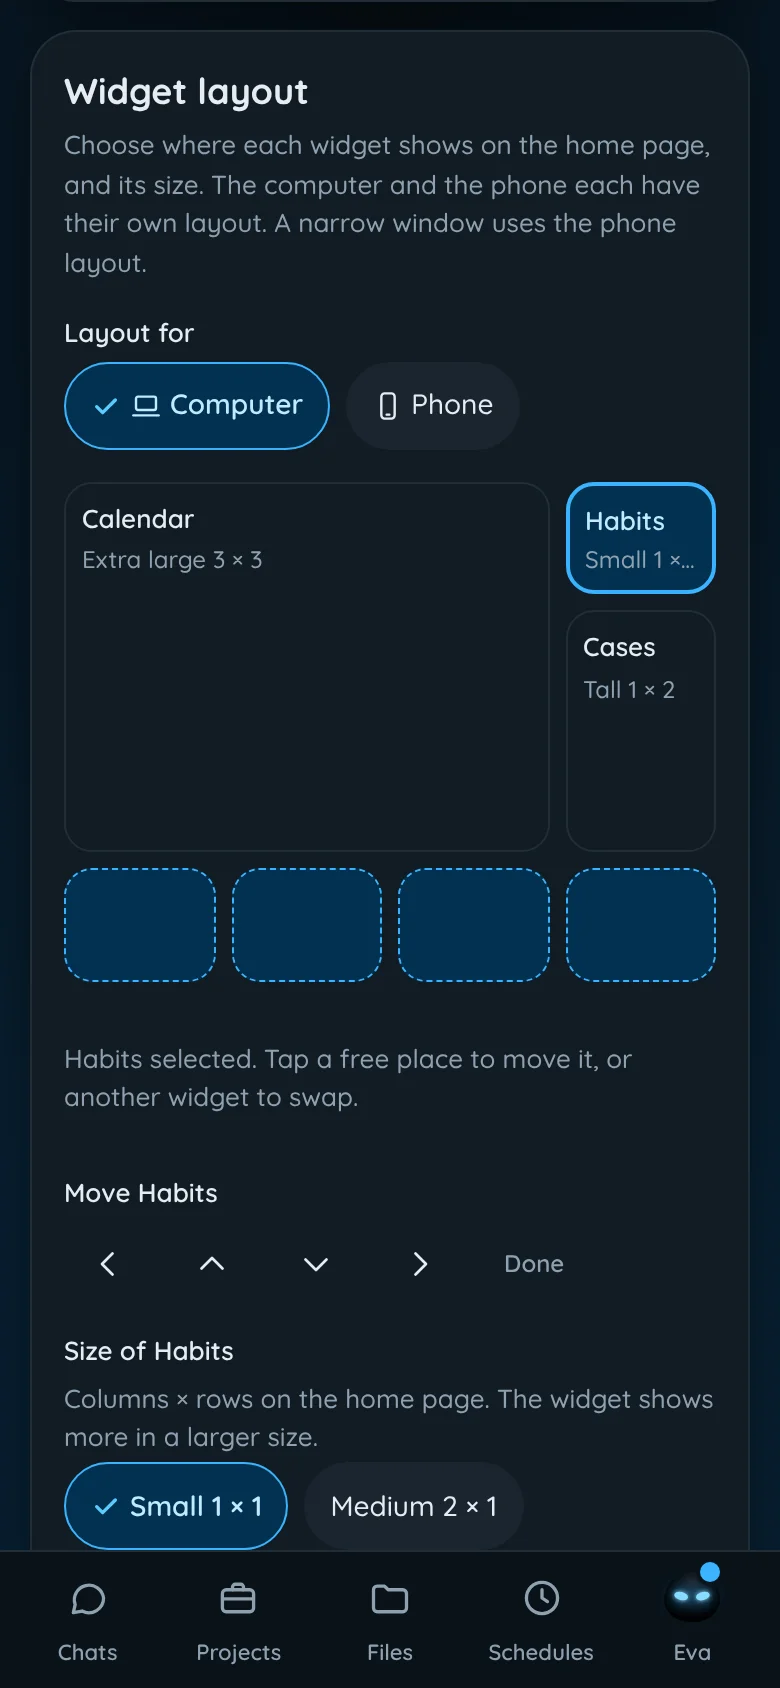
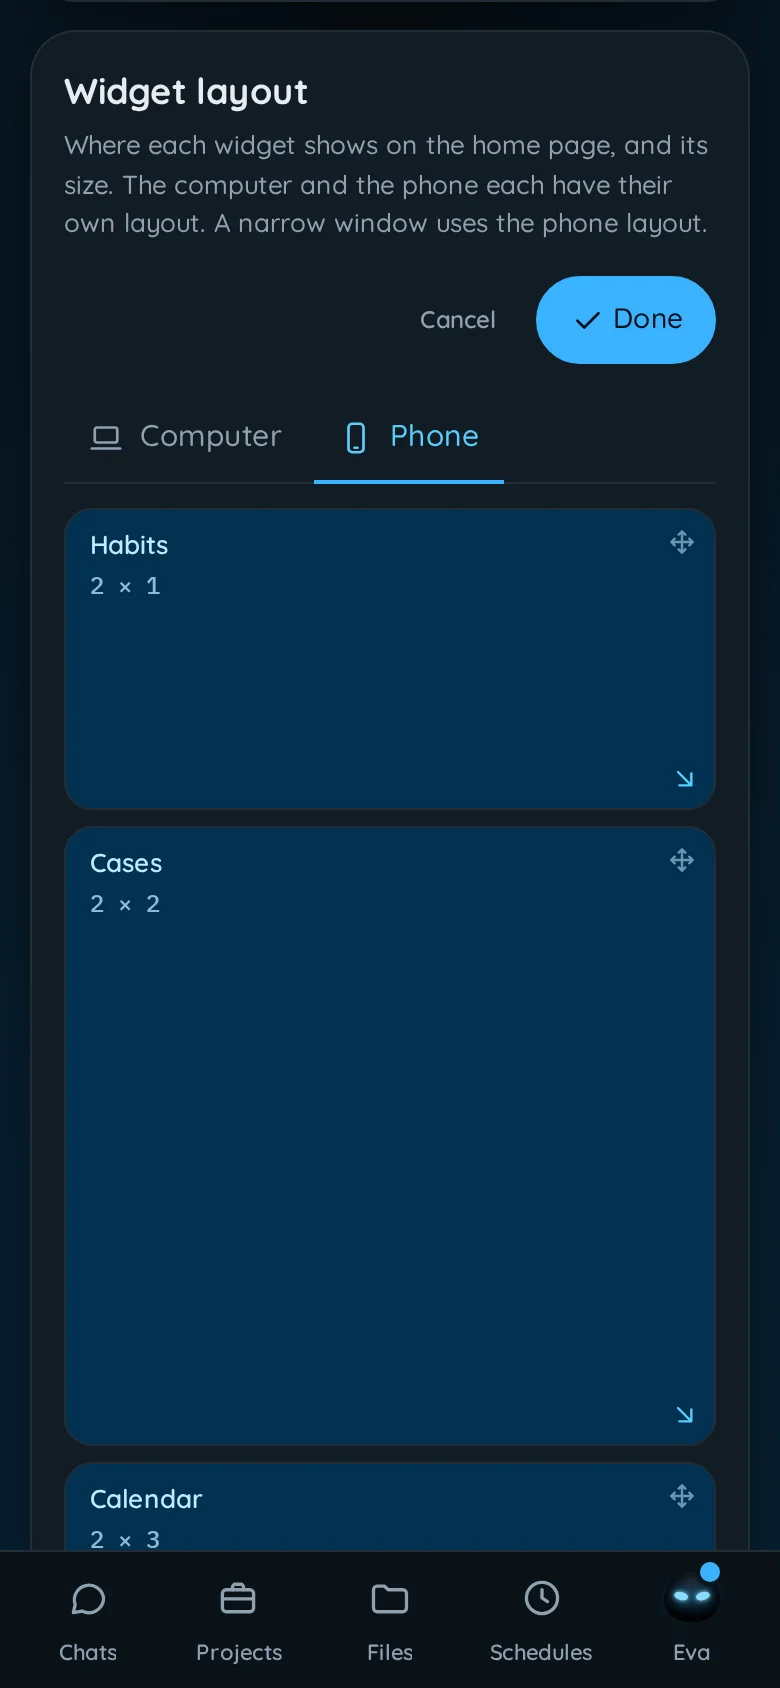
docs: describe the drag editor of the widget layout, and capture it
docs/widgets.md says how a free shape maps to a size name of the
contract, and that a layout saved with a size still reads. The guide
describes the tabs, the edit mode, the drag, the handle and the keys.
The EVE design guide gets the new look and new captures of the edit
mode.

Refs #995

Claude-Session: https://claude.ai/code/session_011YsmygfcE8m7chS1nDMyiz

diff --git a/docs/widgets.md b/docs/widgets.md
@@ -170,7 +170,9 @@ An `eva-cases` input gives the widget the person's open cases. Eva reads them fr
 
 ## Sizes
 
-A widget has five sizes for a fixed grid, and a full-screen view, `full`. The manifest's `size` is the default size of its card in the grid. The person can give the card another of the five sizes, apart on a computer and on a phone, so a widget must work at each size. `tall` and `xlarge` come with contract 2.
+A widget has five sizes for a grid, and a full-screen view, `full`. The manifest's `size` is the default size of its card in the grid. The person can give the card any shape of whole columns and rows, apart on a computer and on a phone. Eva gives the widget the nearest of the five sizes, so a widget must work at each size. `tall` and `xlarge` come with contract 2.
+
+The default shape of each size:
 
 | Size     | On a computer (4 columns) | On a phone (2 columns)                                 |
 | -------- | ------------------------- | ------------------------------------------------------ |
@@ -180,14 +182,28 @@ A widget has five sizes for a fixed grid, and a full-screen view, `full`. The ma
 | `tall`   | 1 column, 2 rows          | The full width, 2 rows                                 |
 | `xlarge` | 3 columns, 3 rows         | The full width, 3 rows                                 |
 
+The size of any other shape (`sizeOfShape` in `src/core/widgets/widget-layout.ts`):
+
+| Shape                                | Size     | Examples                   |
+| ------------------------------------ | -------- | -------------------------- |
+| 1 column, 1 row                      | `small`  | 1 × 1                      |
+| 1 column, 2 rows or more             | `tall`   | 1 × 2, 1 × 4               |
+| 2 columns, 1 row                     | `medium` | 2 × 1                      |
+| 3 columns or more, 1 row             | `large`  | 3 × 1, 4 × 1               |
+| 2 columns or more and 2 rows or more | `large`  | 2 × 2                      |
+| The same, with 6 cells or more       | `xlarge` | 3 × 2, 2 × 3, 3 × 3, 4 × 4 |
+
+A card at the default shape of its own size keeps that size. So a `tall` card at 2 × 2 on a phone stays `tall`, and a card with no saved shape gets the size of its manifest.
+
 The grid is the day panel of Eva's home page:
 
 - The person places each card in **Settings > Personalize > Widget layout**, with a preview of the grid. The computer and the phone each have their own layout. A place can stay empty.
-- Each entry of `.eva/widgets.json` can keep its place and size in an optional `layout` key: `{ "computer": { "column": 1, "row": 1, "size": "xlarge" }, "phone": { "column": 1, "row": 4 } }`. `column` and `row` start at 1. Eva ignores a bad value.
-- A card with no saved place fills the first hole where it fits, in the order of the list, after the saved cards. So no order makes cards overlap. A phone with no saved place follows the order of the computer layout.
+- Each entry of `.eva/widgets.json` can keep its place and shape in an optional `layout` key: `{ "computer": { "column": 1, "row": 1, "columns": 3, "rows": 2 }, "phone": { "column": 1, "row": 4, "columns": 2, "rows": 3 } }`. `column` and `row` start at 1. A card has 4 columns and 8 rows at most. Eva ignores a bad value.
+- An older Eva saved a size name instead of a shape, such as `{ "column": 1, "row": 1, "size": "xlarge" }`. Eva still reads it: the card gets the default shape and the name of that size. A new save writes `columns` and `rows`.
+- A card with no saved place fills the first hole where it fits, in the order of the list, after the saved cards. So no order makes cards overlap. A phone with no saved place follows the order of the computer layout. It takes the size of the computer shape, with the phone shape of that size.
 - `placeWidgets` in `src/core/widgets/widget-layout.ts` places the cards of the home grid and of the preview.
 - On a computer, at least three rows share the height above the message box. Each row is at least 140 px high. More cards add rows, and the page scrolls.
-- On a phone, each row is 168 px high, and the page scrolls. With no saved place, an `xlarge` card shows after the smaller cards, so a long calendar does not push them out of view. Two `small` cards share a row. A `small` card with no partner in its row takes the full width.
+- On a phone, each row is 168 px high, and the page scrolls. With no saved place, an `xlarge` card shows after the smaller cards, so a long calendar does not push them out of view. Two `small` cards share a row. A `small` card that Eva places alone in its row takes the full width. A card that the person placed keeps the shape that the person gave it.
 
 - The widget always fills the space that it gets, at every screen size. It has no empty border.
 - Keep the top right corner free of text and buttons: 56 px wide and 56 px high, at every size. Eva puts her full-screen button there, over the widget, and her close button in full screen.

diff --git a/docs/guide/reference.md b/docs/guide/reference.md
@@ -613,14 +613,17 @@ Each feature stays off until you set it up. `eva doctor` shows which tools are m
   - The list, the layout and the inputs live in `.eva/widgets.json` in the vault. The approvals and a read-only copy of each widget stay on this computer. So another computer shows the same widgets, each with **Approve to show this widget**, until you approve it there.
   - **Turn off** hides a widget and keeps its approval. **Remove** drops its approval and its copy. Your data in the vault stays.
   - **Widget layout**, below the list, chooses where each widget shows and its size. The tiles button next to the bell of the home page opens it too.
-    - Pick **Computer** or **Phone**. Each has its own layout. A window narrower than 761 px uses the phone layout. A phone with no layout of its own follows the computer's order, with no gaps.
-    - The preview shows the home page at a small scale, with one box for each widget that is on. Select a box, then tap a free place to move it there, or another box to swap the two. A mouse can drag a box, and a finger can drag the selected box. The arrows, or the arrow keys, move the selected box one place.
-    - Pick a size for the selected widget: Small, Medium, Large, Tall or Extra large. Each shows its columns and rows. A widget that waits for approval stays small.
+    - Pick the **Computer** or the **Phone** tab. Each has its own layout. A window narrower than 761 px uses the phone layout. A phone with no layout of its own follows the computer's order, with no gaps.
+    - The preview shows the home page at a small scale, with one box for each widget that is on. Each box shows the name of the widget and its size in columns × rows, such as 2 × 1.
+    - Press **Edit** to change the layout. The free cells show as dashed outlines, with one spare row at the bottom.
+    - Drag a box to move it. It snaps to the cells. A place that another box takes does nothing, but a box dropped exactly on a box of the same size swaps places with it.
+    - Drag the corner handle at the bottom right of a box to change its width and its height, in whole cells. The other boxes and the edge of the grid stop it. A widget that waits for approval stays 1 × 1 and has no handle.
+    - With the keyboard, press Tab to go to a box. The arrow keys move it one cell, past the boxes in the way. Shift and the arrow keys change its size by one cell. Press Escape during a drag to put the box back.
     - An empty place stays empty: the home page keeps the gap. A widget that you turn on later goes after the others.
-    - **Arrangements** place every widget with one tap, such as **Big widget left**. **Reset to default** gives back the order of the list, with no gaps.
-    - Nothing changes until you press **Save layout**. Eva then writes the layout into the vault once. When you leave with changes that are not saved, Eva asks first.
-    - With no saved layout, each widget fills the first place where it fits, in the order of the list. On a phone, an Extra large widget then shows after the smaller ones.
-    - On a phone, a Small widget alone in its row always takes the whole row.
+    - **Reset to default** gives back the order of the list, with no gaps, and the size of each widget.
+    - Press **Done** to keep the changes of both tabs. Eva then writes the layout into the vault once. **Cancel** drops them. When you leave with changes that are not saved, Eva asks first.
+    - Eva tells each widget the nearest of its five sizes for the shape that you give it. [docs/widgets.md](../widgets.md#sizes) lists them.
+    - With no saved layout, each widget fills the first place where it fits, in the order of the list. On a phone, an Extra large widget then shows after the smaller ones, and a Small widget alone in its row takes the whole row. A widget that you placed keeps the shape that you gave it.
   - Each folder where a widget keeps data gets a `DATA_FORMAT.md`. Eva writes the whole file: it lists the files, the fields and the widget of each field. Do not edit it. Write your notes in the `AGENTS.md` or the `README.md` of the folder.
   - **Turn on** also shows the line that the widget adds to Eva's prompt. Each new chat with Eva gets it with your real folder. A project chat does not. So when you say "today I trained", Eva saves it where the training widget reads it.
   - Two widgets can share a folder. When one names a field with another type than the other, Eva warns you. Then turn the second widget on with read access only, or pick another folder.

diff --git a/docs/design/eve/README.md b/docs/design/eve/README.md
@@ -385,11 +385,12 @@ Cases, a case page, People, Inventory, Pets and Periods, on a computer and on a 
 
 ![Computer](screenshots/widget-layout-computer-light.webp) ![Phone](screenshots/widget-layout-phone-light.webp)
 
-- Settings > Personalize > Widget layout places the widgets of the home page. Chips pick the computer or the phone layout.
-- The preview is the home grid at a small scale: four columns on a computer, two on a phone. Each widget that is on has a box with its name and size. `placeWidgets` places the preview and the home grid, so the two never differ.
-- A tap selects a box: it takes the soft accent fill and a 2 px accent border. Each free place where it fits shows a dashed accent cell. A tap on a cell moves the box. A tap on another box swaps the two. A drag shows a dashed outline where the box would land.
-- Below the preview, the arrows move the selected box, and chips pick its size. Each target is 44 px at least on a phone.
-- Arrangement chips place every widget with one tap. Save layout is the main button. Nothing changes on the home page before it.
+- Settings > Personalize > Widget layout places the widgets of the home page. Line tabs pick the computer or the phone layout: the shown tab has an accent line on the rule under the row.
+- The preview is the home grid at a small scale: four columns on a computer, two on a phone. Each widget that is on has a box with its name and its size in columns × rows, in the mono font. `placeWidgets` places the preview and the home grid, so the two never differ.
+- The view mode is read only: chip-coloured boxes, and an Edit button at the right end of the tab row.
+- Edit turns on the edit mode. Cancel and Done take the place of Edit. Each free cell is a dashed outline, with one spare row at the bottom. The boxes take the soft accent fill, a move grip at the top right, and a resize handle at the bottom right. A box that moves gets an accent ring and the card shadow.
+- A box snaps to the cells as it moves, and never covers another box. The size label changes as the handle moves. The handle is 44 px on a phone. Reset to default shows only in the edit mode.
+- Done is the main button. Nothing changes on the home page before it.
 
 ### Devices
 
